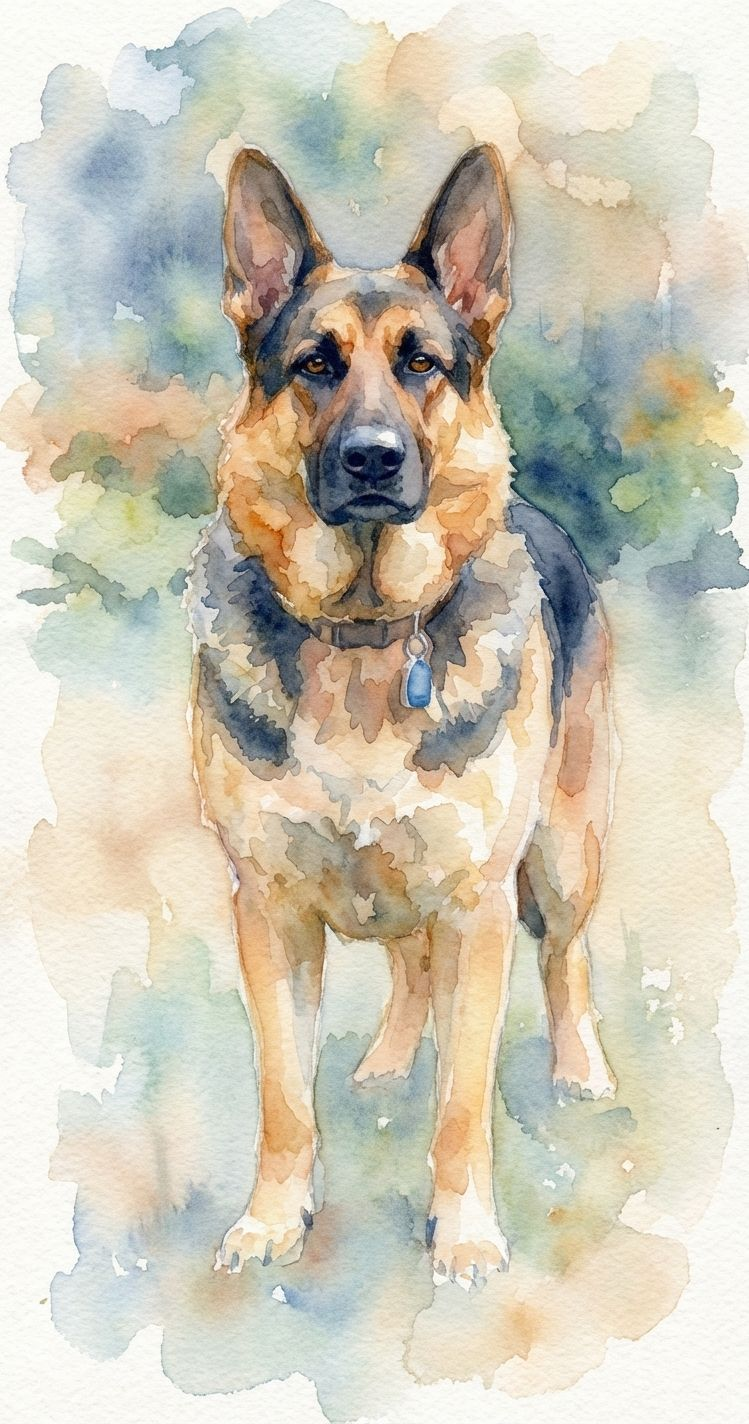
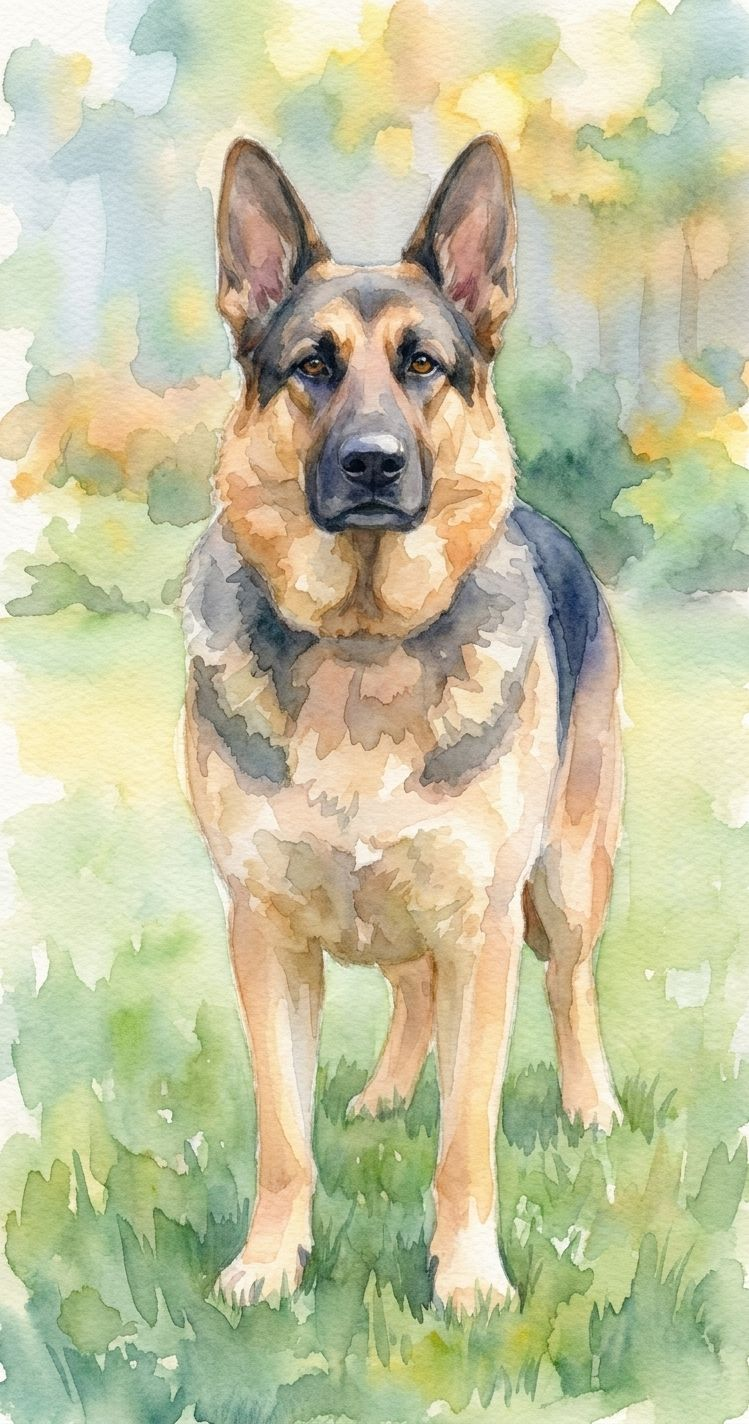
feat: expand pet analysis and portrait generation with new styles, data points, and API endpoints

diff --git a/python/create-portraits.py b/python/create-portraits.py
@@ -7,29 +7,31 @@ from pathlib import Path
 
 # --- Configuration & Setup ---
 
-def load_environment():
+def load_credentials():
     """
-    Load API credentials from .env file and validate them.
-    Returns (api_url, api_key).
+    Load API credentials from .env file.
     """
     # Look for .env in the current directory
     load_dotenv(dotenv_path=Path("./.env"))
     
-    api_url = os.getenv("API_URL", "https://api.thedogapi.com/v1").rstrip('/')
-    api_key = os.getenv("API_KEY")
+    dog_key = os.getenv("API_KEY")
+    cat_key = os.getenv("CAT_API_KEY", dog_key)
     
-    if not api_key:
+    dog_url = os.getenv("API_URL", "https://api.thedogapi.com/v1")
+    cat_url = os.getenv("CAT_API_URL", "https://beta-api.thecatapi.com/v1")
+    
+    if not dog_key and not cat_key:
         print("CRITICAL: API_KEY is missing. Please ensure it's set in your .env file.")
         exit(1)
         
-    return api_url, api_key
-
-# Global configuration
-API_URL, API_KEY = load_environment()
-HEADERS = {"x-api-key": API_KEY}
+    return {
+        "dog_key": dog_key,
+        "cat_key": cat_key,
+        "dog_url": dog_url,
+        "cat_url": cat_url
+    }
 
 # Constants for local file paths
-BASE_IMAGE_DIR = Path("../test-images/dogs")
 OUTPUT_DATA_DIR = Path("output-data")
 OUTPUT_PORTRAITS_DIR = Path("output-portraits")
 
@@ -42,13 +44,13 @@ OUTPUT_PORTRAITS_DIR.mkdir(parents=True, exist_ok=True)
 
 # --- API Helper Functions ---
 
-def get_existing_pet(sub_id):
+def get_existing_pet(sub_id, api_url, headers):
     """
     Check if a pet with a specific 'sub_id' already exists in the system.
     Returns the full pet data JSON if found, otherwise None.
     """
     try:
-        response = requests.get(f"{API_URL}/pets?sub_id={sub_id}", headers=HEADERS)
+        response = requests.get(f"{api_url}/pets?sub_id={sub_id}", headers=headers)
         if response.status_code == 200:
             pets = response.json()
             if isinstance(pets, list) and pets:
@@ -57,7 +59,7 @@ def get_existing_pet(sub_id):
         print(f"Error checking for existing pet: {e}")
     return None
 
-def create_pet_and_upload_images(folder_path):
+def create_pet_and_upload_images(folder_path, api_url, headers, species_id):
     """
     Ensures a pet exists and has images uploaded.
     If the pet exists but lacks images, it uploads all images found in folder_path.
@@ -66,7 +68,7 @@ def create_pet_and_upload_images(folder_path):
     print(f"\n--- Processing Pet Folder: {pet_name} ---")
 
     # Step 1: Check if pet already exists and if it has images
-    pet_data = get_existing_pet(pet_name)
+    pet_data = get_existing_pet(pet_name, api_url, headers)
     pet_id = pet_data.get("id") if pet_data else None
     
     if pet_data:
@@ -100,10 +102,10 @@ def create_pet_and_upload_images(folder_path):
             data = {
                 'name': pet_name.replace('-', ' ').capitalize(),
                 'sub_id': pet_name,
-                'species_id': '1'  # 1 = Dog
+                'species_id': species_id
             }
             print(f"Creating NEW pet '{pet_name}' with {len(files_to_upload)} image(s)...")
-            response = requests.post(f"{API_URL}/pets", headers=HEADERS, data=data, files=files_to_upload)
+            response = requests.post(f"{api_url}/pets", headers=headers, data=data, files=files_to_upload)
             if response.status_code in (200, 201):
                 pet_id = response.json().get("id")
                 print(f"Successfully created pet! ID: {pet_id}")
@@ -114,8 +116,8 @@ def create_pet_and_upload_images(folder_path):
             # As confirmed in PetsController, this uses 'POST /v1/pets/:id/images' and the 'images' field
             print(f"Uploading {len(files_to_upload)} image(s) to existing pet {pet_id}...")
             response = requests.post(
-                f"{API_URL}/pets/{pet_id}/images", 
-                headers=HEADERS, 
+                f"{api_url}/pets/{pet_id}/images", 
+                headers=headers, 
                 files=files_to_upload
             )
             if response.status_code in (200, 201):
@@ -134,14 +136,14 @@ def create_pet_and_upload_images(folder_path):
     
     return None
 
-def run_pet_analysis(pet_id, pet_name, endpoint, output_dir):
+def run_pet_analysis(pet_id, pet_name, endpoint, output_dir, api_url, headers):
     """
     Executes a specific analysis module for a pet and saves the JSON result.
     """
     print(f"Triggering analysis: /{endpoint}...")
     try:
         start_time = time.time()
-        response = requests.post(f"{API_URL}/pets/{pet_id}/{endpoint}", headers=HEADERS)
+        response = requests.post(f"{api_url}/pets/{pet_id}/{endpoint}", headers=headers)
         elapsed = time.time() - start_time
         
         if response.status_code in (200, 201):
@@ -150,21 +152,51 @@ def run_pet_analysis(pet_id, pet_name, endpoint, output_dir):
             with open(output_file, "w") as f:
                 json.dump(data, f, indent=2)
             print(f"✓ {endpoint} Success ({elapsed:.1f}s). File: {output_file}")
+            return data
         else:
             print(f"✗ {endpoint} failed with code {response.status_code}")
     except Exception as e:
         print(f"Exception during {endpoint}: {e}")
+    return None
 
-def generate_portrait(pet_id, pet_name, output_dir, style="studio"):
+def get_health_tips(breed_id, pet_name, output_dir, api_url, headers):
+    """
+    Fetches health tips for a specific breed and saves the JSON result.
+    """
+    print(f"Fetching health tips for breed {breed_id}...")
+    try:
+        start_time = time.time()
+        response = requests.get(f"{api_url}/health-tips?breed_id={breed_id}&limit=5", headers=headers)
+        elapsed = time.time() - start_time
+        
+        if response.status_code in (200, 201):
+            data = response.json()
+            output_file = output_dir / f"{pet_name}_health-tips.json"
+            with open(output_file, "w") as f:
+                json.dump(data, f, indent=2)
+            print(f"✓ Health tips Success ({elapsed:.1f}s). File: {output_file}")
+            return data
+        else:
+            print(f"✗ Health tips failed with code {response.status_code}: {response.text}")
+    except Exception as e:
+        print(f"Exception during health tips retrieval: {e}")
+    return None
+
+def generate_portrait(pet_id, pet_name, output_dir, api_url, headers, style="studio"):
     """
     Requests an artistic portrait generation for the pet and saves to the subfolder.
     """
+    file_path = output_dir / f"{pet_name}_{style}.png"
+    if file_path.exists():
+        print(f"✓ Portrait '{style}' already exists. Skipping.")
+        return
+
     print(f"Requesting '{style}' portrait...")
     try:
         # Request generation
         response = requests.post(
-            f"{API_URL}/pets/{pet_id}/portrait", 
-            headers=HEADERS, 
+            f"{api_url}/pets/{pet_id}/portrait", 
+            headers=headers, 
             json={"style": style}
         )
         
@@ -196,32 +228,74 @@ def generate_portrait(pet_id, pet_name, output_dir, style="studio"):
 # --- Main entry point ---
 
 def main():
-    print(f"API Target: {API_URL}")
+    creds = load_credentials()
+    
+    animals_config = [
+        {
+            "name": "dogs",
+            "api_url": creds["dog_url"],
+            "api_key": creds["dog_key"],
+            "species_id": "1",
+            "base_image_dir": Path("../test-images/dogs")
+        },
+        {
+            "name": "cats",
+            "api_url": creds["cat_url"],
+            "api_key": creds["cat_key"],
+            "species_id": "2",
+            "base_image_dir": Path("../test-images/cats")
+        }
+    ]
     
     # Supported Analysis Modules
     analysis_modules = ["genealogy", "body-condition-score", "estimated-age", "muscle-condition-score"]
 
-    # Iterate through each folder in the dogs directory
-    for pet_folder in [d for d in BASE_IMAGE_DIR.iterdir() if d.is_dir()]:
-        pet_name = pet_folder.name
+    for config in animals_config:
+        api_url = config["api_url"]
+        api_key = config["api_key"]
+        species_id = config["species_id"]
+        base_dir = config["base_image_dir"]
         
-        # 1. Register Pet & Upload Source Images from folder
-        pet_id = create_pet_and_upload_images(pet_folder)
-        
-        if pet_id:
-            # Initialize pet-specific output subfolders
-            pet_data_dir = OUTPUT_DATA_DIR / pet_name
-            pet_portrait_dir = OUTPUT_PORTRAITS_DIR / pet_name
-            pet_data_dir.mkdir(parents=True, exist_ok=True)
-            pet_portrait_dir.mkdir(parents=True, exist_ok=True)
-
-            # 2. Perform various health/physical analyses
-            for module in analysis_modules:
-                run_pet_analysis(pet_id, pet_name, module, pet_data_dir)
+        if not api_key:
+            print(f"\nSkipping {config['name']}, missing API key.")
+            continue
             
-            # 3. Generate Artistic Portraits for all requested styles
-            for style in PORTRAIT_STYLES:
-                generate_portrait(pet_id, pet_name, pet_portrait_dir, style=style)
+        headers = {"x-api-key": api_key}
+        
+        if not base_dir.exists() or not base_dir.is_dir():
+            print(f"\nSkipping {config['name']}, directory {base_dir} not found.")
+            continue
+            
+        print(f"\n================ Processing {config['name'].upper()} ================")
+        print(f"API Target: {api_url}")
+        
+        # Iterate through each folder in the animal directory
+        for pet_folder in [d for d in base_dir.iterdir() if d.is_dir()]:
+            pet_name = pet_folder.name
+            
+            # 1. Register Pet & Upload Source Images from folder
+            pet_id = create_pet_and_upload_images(pet_folder, api_url, headers, species_id)
+            
+            if pet_id:
+                # Initialize pet-specific output subfolders
+                pet_data_dir = OUTPUT_DATA_DIR / pet_name
+                pet_portrait_dir = OUTPUT_PORTRAITS_DIR / pet_name
+                pet_data_dir.mkdir(parents=True, exist_ok=True)
+                pet_portrait_dir.mkdir(parents=True, exist_ok=True)
+
+                # 2. Perform various health/physical analyses
+                for module in analysis_modules:
+                    result_data = run_pet_analysis(pet_id, pet_name, module, pet_data_dir, api_url, headers)
+                    
+                    # Fetch health tips using the breed ID from genealogy analysis
+                    #if module == "genealogy" and result_data:
+                    #    breed_id = result_data.get("genealogy", {}).get("primary_breed", {}).get("id")
+                    #    if breed_id:
+                    #        get_health_tips(breed_id, pet_name, pet_data_dir, api_url, headers)
+                
+                # 3. Generate Artistic Portraits for all requested styles
+                for style in PORTRAIT_STYLES:
+                    generate_portrait(pet_id, pet_name, pet_portrait_dir, api_url, headers, style=style)
 
 if __name__ == "__main__":
     main()

diff --git a/python/README.md b/python/README.md
@@ -34,12 +34,12 @@ The follow table summarizes the portrait-related endpoints demonstrated in this 
 
 | Operation | Method | URL | Description |
 | :--- | :--- | :--- | :--- |
+| **Check Pet** | `GET` | `/v1/pets?sub_id={id}` | Checks if a pet already exists using its `sub_id`. |
 | **Create Pet** | `POST` | `/v1/pets` | Creates a pet record and uploads multiple images in one multipart request. |
-| **Analyze** | `POST` | `/v1/pets/{id}/{module}` | Runs physical analyses (e.g. `estimated-age`, `body-condition-score`). |
-| **Request Portrait** | `POST` | `/v1/pets/{id}/portrait` | Triggers the generation of an artistic portrait. Supports styles like `studio`, `pencil_sketch`, `professional`, and `oil_painting`. |
-| **Check Status** | `GET` | `/v1/pets/{id}/portrait/{pid}`| (Optional) Check the status of a long-running generation. |
-| **Get Styles** | `GET` | `/v1/pets/portrait-styles` | Lists available artistic styles. |
-| **Upload Image** | `POST` | `/v1/images/upload-sync` | Alternative way to upload a single image synchronously. |
+| **Add Images** | `POST` | `/v1/pets/{id}/images` | Uploads additional images to an existing pet profile. |
+| **Analyze** | `POST` | `/v1/pets/{id}/{module}` | Runs physical analyses: `genealogy`, `estimated-age`, `body-condition-score`, `muscle-condition-score`. |
+| **Health Tips** | `GET` | `/v1/health-tips` | Retrieves breed-specific recommendations using the breed ID from genealogy analysis. |
+| **Request Portrait** | `POST` | `/v1/pets/{id}/portrait` | Triggers the generation of an artistic portrait. Supports styles like `studio`, `pencil_sketch`, `watercolour`, `oil_painting`, and `july_4th`. |
 
 ---
 
@@ -55,7 +55,7 @@ The follow table summarizes the portrait-related endpoints demonstrated in this 
 1. **Automatic Discovery**: The script scans `../test-images/dogs/` for subfolders. Each folder name is used as the `pet_name` and `sub_id`.
 2. **Bulk Upload**: For each folder, it collects all valid image files and uploads them in a single `multipart/form-data` request when creating the pet profile.
 3. **Organized Outputs**: Analysis results and portraits are saved in dedicated subfolders within `output-data/` and `output-portraits/`, matching the source folder name.
-4. **Multi-Style Portraits**: It generates four artistic styles (`studio`, `pencil_sketch`, `professional`, `oil_painting`) for every discovered pet.
+4. **Multi-Style Portraits**: It generates five artistic styles (`studio`, `pencil_sketch`, `watercolour`, `oil_painting`, `july_4th`) for every discovered pet.
 
 ---
 

diff --git a/README.md b/README.md
@@ -29,10 +29,14 @@ Follow the instructions in [python/README.md](python/README.md) to set up your e
 ## 📖 API Documentation
 
 The example interacts with the following endpoints:
+- `GET /v1/pets`: Search for existing pet profiles.
 - `POST /v1/pets`: Create a pet profile.
 - `POST /v1/pets/{id}/images`: Upload images to a pet profile.
 - `POST /v1/pets/{id}/portrait`: Generate an AI portrait.
 - `POST /v1/pets/{id}/genealogy`: Analyze breed and genealogy.
-- `POST /v1/pets/{id}/body-condition-score`: Analyze BCS.
+- `POST /v1/pets/{id}/body-condition-score`: Analyze Body Condition Score (BCS).
+- `POST /v1/pets/{id}/estimated-age`: Analyze estimated age.
+- `POST /v1/pets/{id}/muscle-condition-score`: Analyze Muscle Condition Score (MCS).
+- `GET /v1/health-tips`: Retrieve breed-specific health recommendations.
 
 For more details on the API, visit [TheDogAPI Documentation](https://docs.thedogapi.com).
